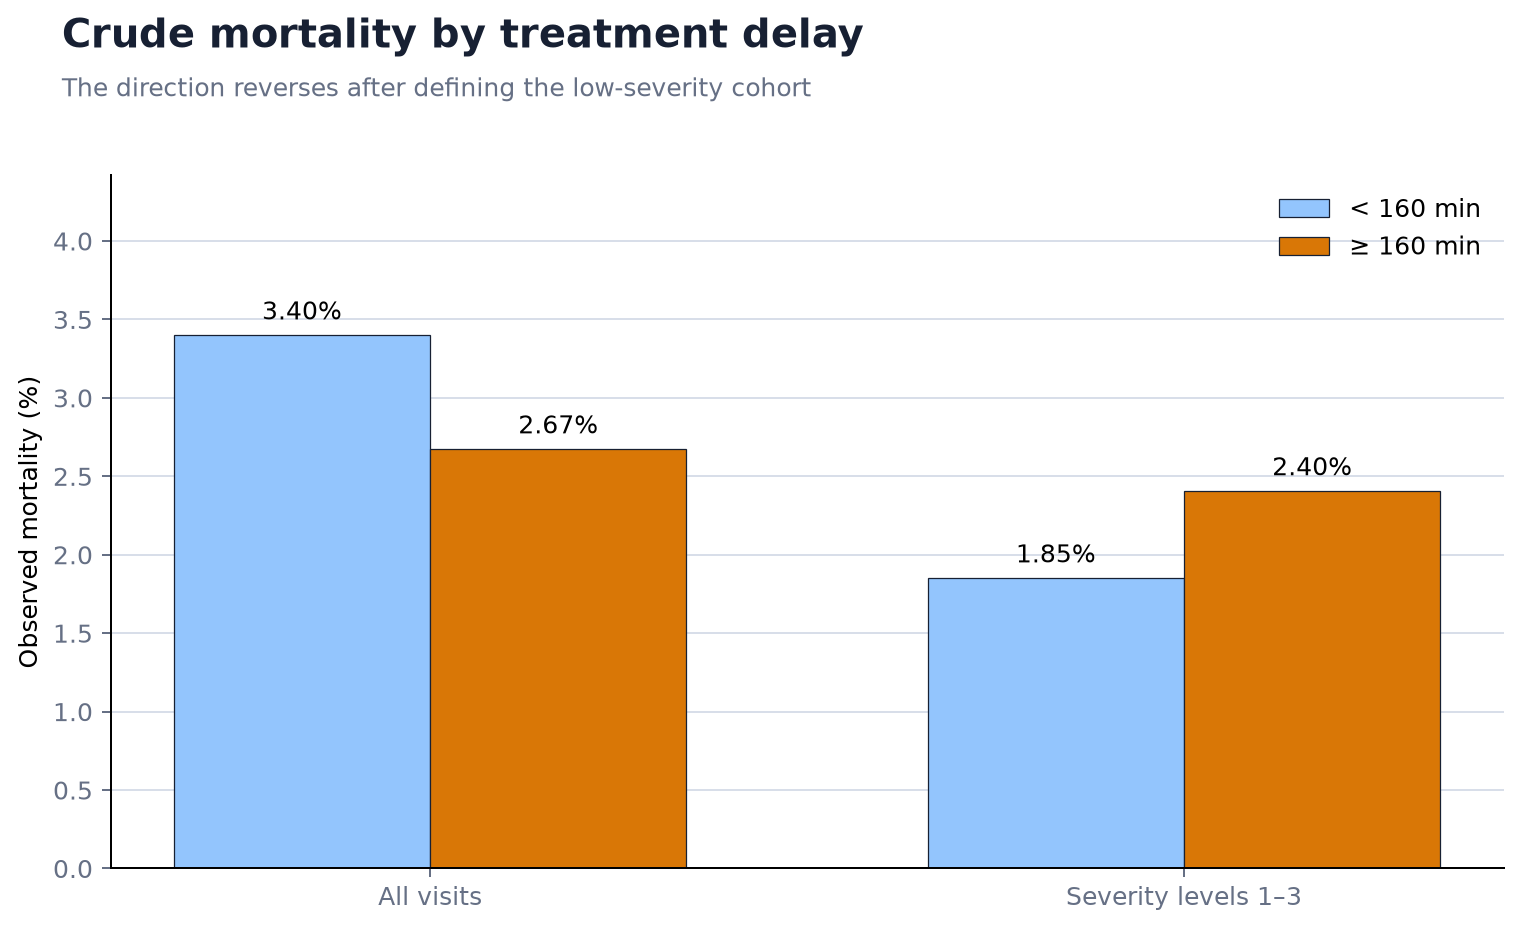
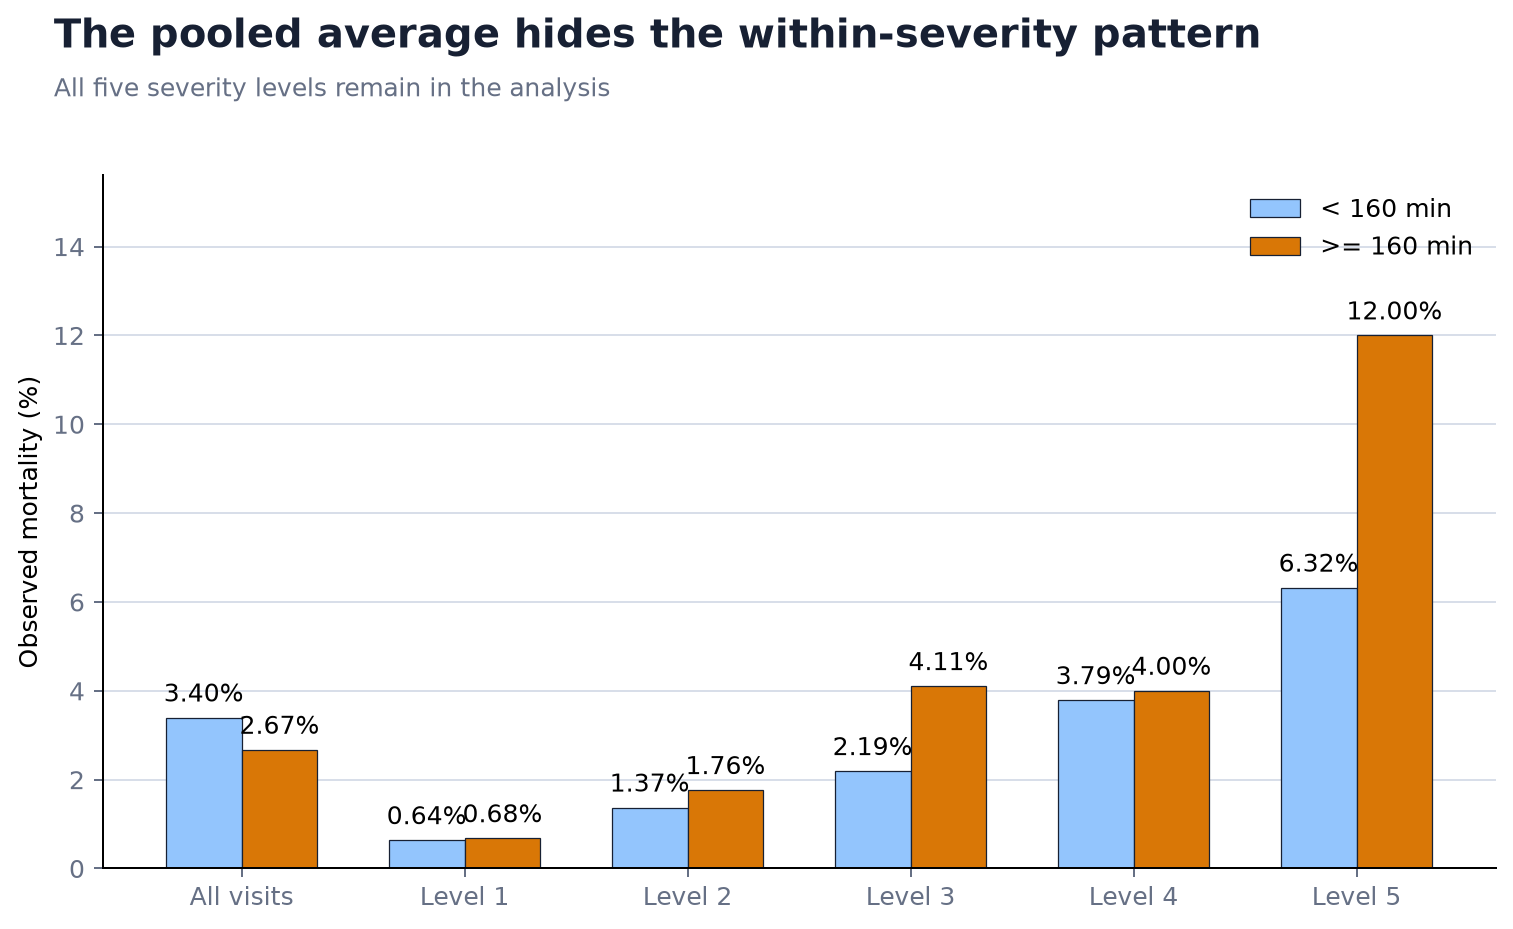
Include all severity levels in AIPW analysis (#5)
Use severity and age for adjustment while retaining all 9,994 visits across severity levels 1-5. Refresh the executed notebook, SCQA README, figures, estimates, and validation notes.

diff --git a/analysis.py b/analysis.py
@@ -1,4 +1,4 @@
-"""Minimal doubly robust analysis of ED treatment delay and mortality."""
+"""Doubly robust analysis of ED treatment delay and mortality."""
 
 from __future__ import annotations
 
@@ -6,6 +6,8 @@ import argparse
 import json
 from pathlib import Path
 
+import matplotlib
+matplotlib.use("Agg")
 import matplotlib.pyplot as plt
 import numpy as np
 import pandas as pd
@@ -27,8 +29,8 @@ def load_data(path: Path) -> tuple[pd.DataFrame, pd.DataFrame]:
     needed = ["Treatment_Delay_Minutes", "Mortality_Flag", *CONFOUNDERS]
     if missing := sorted(set(needed) - set(data.columns)):
         raise ValueError(f"Missing columns: {missing}")
-    cohort = data.loc[data["Severity_Level"].between(1, 3), needed].dropna().copy()
-    return data, cohort.reset_index(drop=True)
+    analysis_data = data[needed].dropna().copy()
+    return data, analysis_data.reset_index(drop=True)
 
 
 def model():
@@ -104,26 +106,30 @@ def style(ax) -> None:
     ax.tick_params(colors=MUTED)
 
 
-def plot_reversal(data: pd.DataFrame, cohort: pd.DataFrame, threshold: int, path: Path) -> None:
+def plot_reversal(data: pd.DataFrame, threshold: int, path: Path) -> None:
     rows = []
-    for population, frame in [("All visits", data), ("Severity levels 1–3", cohort)]:
+    populations = [("All visits", data)] + [
+        (f"Level {int(level)}", data.loc[data["Severity_Level"].eq(level)])
+        for level in sorted(data["Severity_Level"].dropna().unique())
+    ]
+    for population, frame in populations:
         high = frame["Treatment_Delay_Minutes"].ge(threshold)
-        for delay, mask in [(f"< {threshold} min", ~high), (f"≥ {threshold} min", high)]:
+        for delay, mask in [(f"< {threshold} min", ~high), (f">= {threshold} min", high)]:
             rows.append((population, delay, frame.loc[mask, "Mortality_Flag"].mean() * 100))
     chart = pd.DataFrame(rows, columns=["population", "delay", "mortality"])
 
     fig, ax = plt.subplots(figsize=(9, 5.5))
-    x, width = np.arange(2), 0.34
-    for offset, delay, color in [(-width / 2, f"< {threshold} min", LIGHT_BLUE), (width / 2, f"≥ {threshold} min", ORANGE)]:
+    x, width = np.arange(len(populations)), 0.34
+    for offset, delay, color in [(-width / 2, f"< {threshold} min", LIGHT_BLUE), (width / 2, f">= {threshold} min", ORANGE)]:
         values = chart.loc[chart["delay"].eq(delay), "mortality"]
         bars = ax.bar(x + offset, values, width, label=delay, color=color, edgecolor=INK, linewidth=0.5)
         ax.bar_label(bars, fmt="%.2f%%", padding=4)
-    ax.set_xticks(x, ["All visits", "Severity levels 1–3"])
+    ax.set_xticks(x, [name for name, _ in populations])
     ax.set_ylabel("Observed mortality (%)")
     ax.set_ylim(0, chart["mortality"].max() * 1.3)
     ax.legend(frameon=False)
     style(ax)
-    figure_title(fig, "Crude mortality by treatment delay", "The direction reverses after defining the low-severity cohort")
+    figure_title(fig, "The pooled average hides the within-severity pattern", "All five severity levels remain in the analysis")
     fig.subplots_adjust(top=0.82, left=0.10, right=0.96, bottom=0.12)
     fig.savefig(path, dpi=180, bbox_inches="tight", facecolor="white")
     plt.close(fig)
@@ -176,12 +182,12 @@ def plot_effect(result: dict, path: Path) -> None:
     ax.text(crude, 1.15, f"{crude:+.2f} pp", ha="center", color=INK)
     ax.text(adjusted, 0.15, f"{adjusted:+.2f} pp", ha="center", color=INK)
     ax.set_yticks([1, 0], ["Crude", "Doubly robust AIPW"])
-    ax.set_xlabel("Mortality risk difference (percentage points): high delay − lower delay")
+    ax.set_xlabel("Mortality risk difference (percentage points): high delay - lower delay")
     ax.set_ylim(-0.55, 1.55)
     style(ax)
     ax.grid(axis="x", color=GRID)
     ax.grid(axis="y", visible=False)
-    figure_title(fig, "Mortality risk difference in low-severity visits", "High delay is ≥160 minutes; horizontal interval is the bootstrap 95% CI")
+    figure_title(fig, "Adjusted mortality risk difference across all visits", "High delay is >=160 minutes; horizontal interval is the bootstrap 95% CI")
     fig.subplots_adjust(top=0.80, left=0.25, right=0.96, bottom=0.20)
     fig.savefig(path, dpi=180, bbox_inches="tight", facecolor="white")
     plt.close(fig)
@@ -192,21 +198,21 @@ def run_analysis(path: Path, output: Path, threshold: int = 160, bootstraps: int
     for folder in (figures, results, reports):
         folder.mkdir(parents=True, exist_ok=True)
 
-    data, cohort = load_data(path)
-    estimate = estimate_aipw(cohort, threshold)
-    estimate["ci_low"], estimate["ci_high"] = bootstrap_ci(cohort, threshold, bootstraps)
+    data, analysis_data = load_data(path)
+    estimate = estimate_aipw(analysis_data, threshold)
+    estimate["ci_low"], estimate["ci_high"] = bootstrap_ci(analysis_data, threshold, bootstraps)
     estimate.update({"threshold": threshold, "bootstraps": bootstraps, "confounders": CONFOUNDERS})
 
     (results / "summary.json").write_text(json.dumps(estimate, indent=2), encoding="utf-8")
     (reports / "results.md").write_text(
         "# Results\n\n"
-        f"Among {estimate['n']:,} severity 1–3 visits, the doubly robust AIPW risk difference was "
+        f"Among {estimate['n']:,} visits across severity levels 1-5, the doubly robust AIPW risk difference was "
         f"**{estimate['risk_difference'] * 100:+.2f} percentage points** "
         f"(bootstrap 95% CI {estimate['ci_low'] * 100:+.2f} to {estimate['ci_high'] * 100:+.2f}).\n",
         encoding="utf-8",
     )
-    plot_reversal(data, cohort, threshold, figures / "01_crude_mortality_reversal.png")
-    plot_severity(data, threshold, figures / "02_severity_mechanism.png")
+    plot_reversal(analysis_data, threshold, figures / "01_crude_mortality_reversal.png")
+    plot_severity(analysis_data, threshold, figures / "02_severity_mechanism.png")
     plot_effect(estimate, figures / "03_effect_estimate.png")
     return estimate
 

diff --git a/tests/test_analysis.py b/tests/test_analysis.py
@@ -1,9 +1,11 @@
 import unittest
+from pathlib import Path
+from tempfile import TemporaryDirectory
 
 import numpy as np
 import pandas as pd
 
-from analysis import CONFOUNDERS, estimate_aipw, model
+from analysis import CONFOUNDERS, estimate_aipw, load_data, model
 
 
 class AnalysisTests(unittest.TestCase):
@@ -13,7 +15,7 @@ class AnalysisTests(unittest.TestCase):
     def test_aipw_runs(self):
         n = 200
         data = pd.DataFrame({
-            "Severity_Level": np.tile([1, 2, 3, 2], n // 4),
+            "Severity_Level": np.tile([1, 2, 3, 4, 5], n // 5),
             "Dim_Patient.Age": np.arange(n) % 70 + 18,
             "Treatment_Delay_Minutes": np.where(np.arange(n) % 2, 200, 100),
             "Mortality_Flag": (np.arange(n) % 11 == 0).astype(int),
@@ -21,6 +23,19 @@ class AnalysisTests(unittest.TestCase):
         result = estimate_aipw(data)
         self.assertTrue(np.isfinite(result["risk_difference"]))
         self.assertEqual(CONFOUNDERS, ["Severity_Level", "Dim_Patient.Age"])
+
+    def test_load_data_keeps_every_severity_level(self):
+        data = pd.DataFrame({
+            "Severity_Level": [1, 2, 3, 4, 5],
+            "Dim_Patient.Age": [20, 30, 40, 50, 60],
+            "Treatment_Delay_Minutes": [100, 200, 100, 200, 100],
+            "Mortality_Flag": [0, 0, 1, 0, 1],
+        })
+        with TemporaryDirectory() as folder:
+            path = Path(folder) / "mortality.xlsx"
+            data.to_excel(path, sheet_name="model", index=False)
+            _, analysis_data = load_data(path)
+        self.assertEqual(analysis_data["Severity_Level"].tolist(), [1, 2, 3, 4, 5])
 
 
 if __name__ == "__main__":

diff --git a/README.md b/README.md
@@ -1,45 +1,43 @@
-# Treatment delay and mortality in low-severity ED visits
+# ED treatment delay and mortality
 
-## Executive Summary
+## Executive summary
 
-- **Signal:** high delay was associated with **+1.43 percentage points** mortality after adjustment.
-- **Uncertainty:** the bootstrap 95% CI was **−0.07 to +2.77 points**, so the result is not conclusive.
+- **Signal:** after adjustment, high delay was associated with **+2.15 percentage points** mortality.
+- **Uncertainty:** the bootstrap 95% CI was **-0.36 to +6.61 points**, so the result is not conclusive.
 - **Decision:** reduce avoidable delays and study them prospectively; do not treat 160 minutes as a proven clinical cutoff.
 
 ## Situation
 
-Emergency departments must prioritize urgent patients. This project asks whether long waits may create risk among visits already classified as low severity.
+Emergency departments prioritize urgent patients. This project asks whether treatment beginning at or after 160 minutes may increase mortality across all severity levels.
 
 ## Complication
 
-The full sample looks reassuring: mortality is lower with high delay. That average is misleading because sicker patients are treated sooner and die more often. Among severity levels 1–3, the crude direction reverses.
+The pooled data look reassuring: mortality is 0.73 points lower in the high-delay group. But higher-severity patients are usually treated sooner and are more likely to die. Within every severity level, observed mortality is higher with high delay: a practical example of Simpson's paradox.
 
-![Crude mortality by treatment delay](figures/01_crude_mortality_reversal.png)
-
-Severity affects both treatment timing and mortality—a practical example of Simpson's paradox.
+![Crude mortality by treatment delay within every severity level](figures/01_crude_mortality_reversal.png)
 
 ![Severity, mortality, and treatment timing](figures/02_severity_mechanism.png)
 
 ## Question
 
-> Among comparable severity 1–3 visits, how would mortality differ if treatment began at or after 160 minutes rather than sooner?
+> Across severity levels 1-5, how would mortality differ if treatment began at or after 160 minutes rather than sooner?
 
 ## Evidence
 
-The analysis uses age and severity as the confounders. A propensity model estimates who receives high delay; separate mortality models estimate risk under high and lower delay. AIPW combines both parts, making the estimator doubly robust under the causal assumptions.
+All 9,994 visits remain in the analysis. Age and severity are used for adjustment, not cohort exclusion. A propensity model estimates high-delay probability; separate mortality models estimate risk under high and lower delay. AIPW combines both parts, making the estimator doubly robust under the causal assumptions.
 
 | Result | Estimate |
 |---|---:|
-| Adjusted mortality, high delay | 3.21% |
-| Adjusted mortality, lower delay | 1.79% |
-| AIPW risk difference | **+1.43 pp** |
-| Bootstrap 95% CI | **−0.07 to +2.77 pp** |
+| Adjusted mortality, high delay | 5.37% |
+| Adjusted mortality, lower delay | 3.22% |
+| AIPW risk difference | **+2.15 pp** |
+| Bootstrap 95% CI | **-0.36 to +6.61 pp** |
 
 ![Doubly robust mortality estimate](figures/03_effect_estimate.png)
 
 ## Answer
 
-Long delay may increase mortality in low-severity visits, but this dataset does not prove a causal threshold.
+Long delay may increase mortality across ED severity levels, but the interval includes no effect. Treat this as an operational warning, not proof of a causal threshold.
 
 1. Monitor median and 90th-percentile delay by severity and week.
 2. Investigate staffing, queue, room, and handoff bottlenecks.
@@ -47,14 +45,14 @@ Long delay may increase mortality in low-severity visits, but this dataset does 
 
 ## Method
 
-- **Cohort:** 5,216 visits at severity levels 1–3
-- **Exposure:** treatment delay ≥160 versus <160 minutes
+- **Cohort:** 9,994 visits across severity levels 1-5
+- **Exposure:** treatment delay >=160 versus <160 minutes
 - **Outcome:** in-visit mortality
 - **Confounders:** severity and age
 - **Estimator:** five-fold cross-fitted propensity-score AIPW
 - **Uncertainty:** simple 200-replicate percentile bootstrap
 
-The raw workbook is excluded from Git. The analysis is observational and depends on consistency, positivity, correct time ordering, and no important unmeasured confounding.
+AIPW adjusts measured confounding; it does not create true randomization. High-delay overlap is limited in severity levels 4 and 5 (25 visits each), and unmeasured operational confounding may remain.
 
 ## Run it
 
@@ -64,6 +62,6 @@ python analysis.py --input data/raw/mortality.xlsx
 python -m unittest discover -s tests -v
 ```
 
-See the [notebook](notebooks/low_severity_delay_causal_analysis.ipynb), [methodology](reports/methodology.md), and [validation notes](reports/validation_report.md).
+See the [notebook](notebooks/ed_delay_causal_analysis.ipynb), [methodology](reports/methodology.md), and [validation notes](reports/validation_report.md).
 
-> Portfolio analysis only—not clinical guidance.
+> Portfolio analysis only - not clinical guidance.

diff --git a/reports/methodology.md b/reports/methodology.md
@@ -2,10 +2,11 @@
 
 ## Question
 
-Among severity 1–3 ED visits, what is the mortality risk difference for treatment delay ≥160 versus <160 minutes?
+Across severity levels 1-5, what is the mortality risk difference for treatment delay >=160 versus <160 minutes?
 
 ## Model
 
+- Population: all 9,994 complete visits; no severity level is excluded
 - Confounders: `Severity_Level` and `Dim_Patient.Age`
 - Propensity model: logistic regression
 - Outcome models: separate logistic regressions for high and lower delay
@@ -19,8 +20,8 @@ The outcome models do not use `class_weight="balanced"` because AIPW needs popul
 
 For each visit, the estimator combines an outcome-model prediction with an inverse-probability weighted residual. The high- and lower-delay risks are averaged separately; their difference is the reported effect.
 
-AIPW is doubly robust: it can remain consistent if either the propensity model or the outcome model is correct, provided the other causal assumptions hold.
+AIPW is doubly robust: it can remain consistent if either the propensity model or the outcome model is correct, provided the other causal assumptions hold. This adjustment does not create true randomization.
 
 ## Assumptions
 
-Consistency, positivity, no interference, correct time ordering, and no important unmeasured confounding. The 160-minute threshold is operational, not clinically validated.
+Consistency, positivity, no interference, correct time ordering, and no important unmeasured confounding. Positivity is weakest in severity levels 4 and 5, with only 25 high-delay visits in each. The 160-minute threshold is operational, not clinically validated.

diff --git a/reports/validation_report.md b/reports/validation_report.md
@@ -2,11 +2,11 @@
 
 **Assessment: share with caveats.**
 
-- The final code keeps the intended confounders: severity and age.
+- All 9,994 visits across severity levels 1-5 are included.
+- Severity and age are adjustment variables, not eligibility filters.
 - Propensity and outcome predictions are cross-fitted.
-- Each model owns its preprocessing state.
-- The doubly robust AIPW formula is retained.
-- The confidence interval uses a simple 200-replicate percentile bootstrap.
-- `class_weight="balanced"` was removed because it distorted absolute mortality probabilities.
+- The doubly robust AIPW formula and simple 200-replicate percentile bootstrap are retained.
+- `class_weight="balanced"` is omitted because it distorts absolute mortality probabilities.
+- The aggregate crude difference is -0.73 percentage points, while mortality is higher with high delay within every severity level.
 
-The final estimate is **+1.43 percentage points** with a bootstrap 95% CI of **−0.07 to +2.77**. The interval includes zero, and unmeasured operational confounding remains possible.
+The final estimate is **+2.15 percentage points** with a bootstrap 95% CI of **-0.36 to +6.61**. The interval includes zero. High-delay overlap is sparse at severity levels 4 and 5 (25 visits each), and unmeasured operational confounding remains possible.

diff --git a/reports/results.md b/reports/results.md
@@ -1,3 +1,3 @@
 # Results
 
-Among 5,216 severity 1–3 visits, the doubly robust AIPW risk difference was **+1.43 percentage points** (bootstrap 95% CI -0.07 to +2.77).
+Among 9,994 visits across severity levels 1-5, the doubly robust AIPW risk difference was **+2.15 percentage points** (bootstrap 95% CI -0.36 to +6.61).
